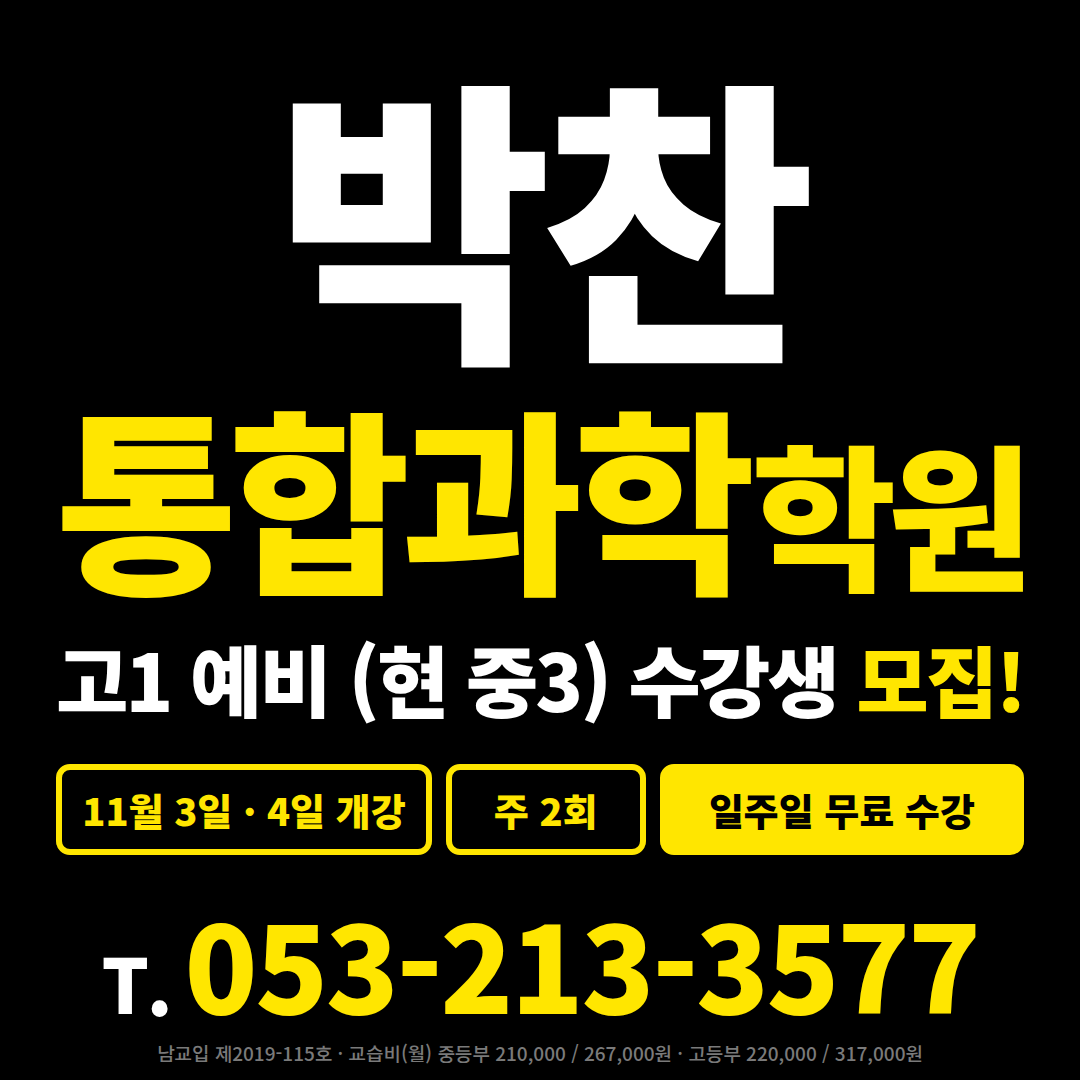
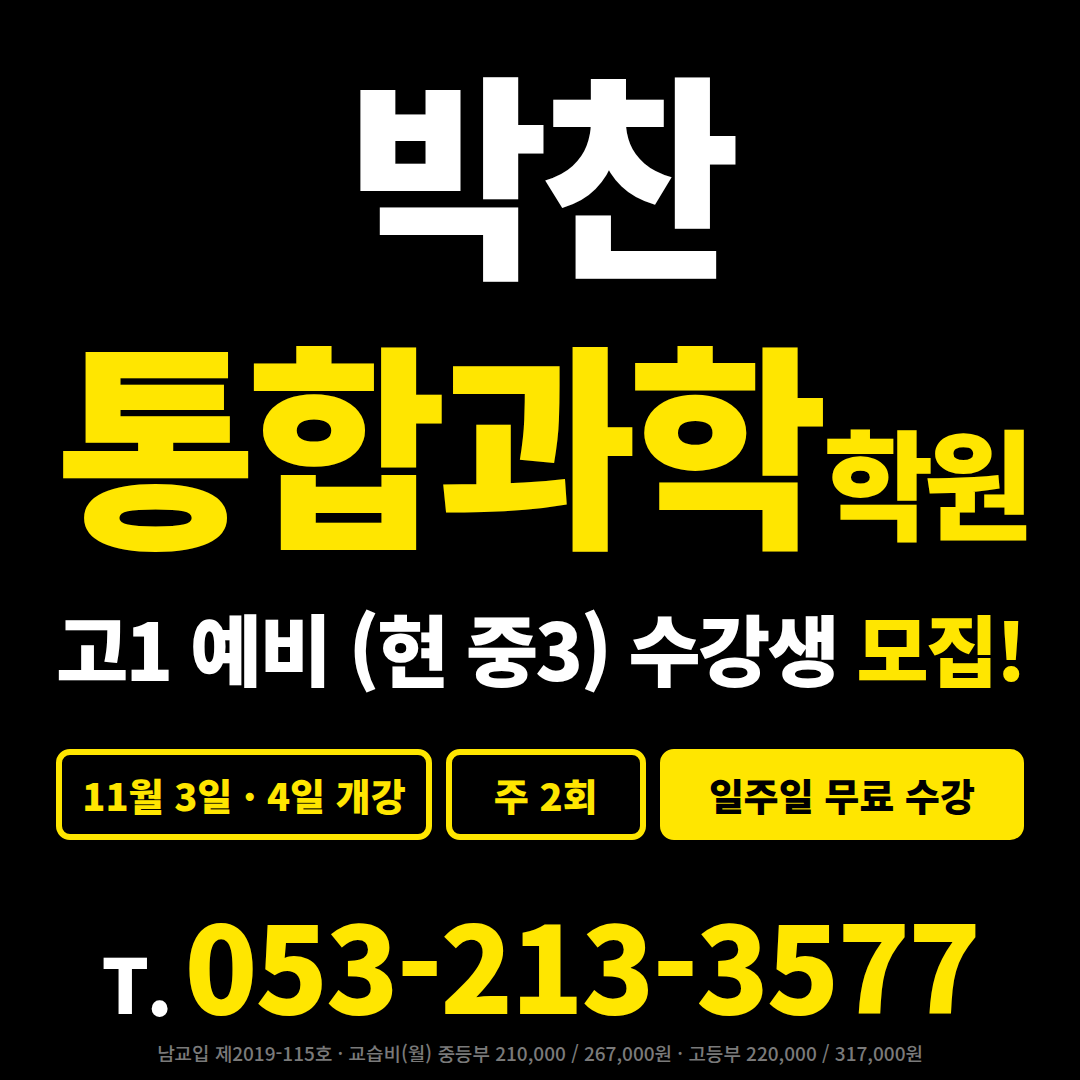
당근 광고 그림 A: '박찬'과 '통합과학' 글자 크기를 같게
Claude-Session: https://claude.ai/code/session_01WC7EVNFFJZDdwaC3HYBAmj

Changed region(s): [[0.0306, 0.0611, 0.9472, 0.7944]]

diff --git a/parkchan-science/marketing/daangn-01/images_source.html b/parkchan-science/marketing/daangn-01/images_source.html
@@ -179,7 +179,7 @@ h2{font-size:58px;font-weight:900;line-height:1.3;letter-spacing:-.02em;color:va
 #adA{align-items:center;text-align:center;padding:58px 56px 58px;justify-content:space-between}
 #adA .nm1,#adA .nm2,#adA .rec,#adA .tel{align-self:center;margin:0;line-height:1;font-weight:900}
 #adA .nm1{color:#fff;letter-spacing:-.04em}
-#adA .nm2{color:#FFE600;letter-spacing:-.045em;margin-top:-10px}#adA .nm2 i{font-style:normal;font-size:.8em;margin-left:.03em}
+#adA .nm2{color:#FFE600;letter-spacing:-.045em;margin-top:-10px}#adA .nm2 i{font-style:normal;font-size:.55em;margin-left:.04em}
 #adA .rec{color:#fff;letter-spacing:-.035em}#adA .rec em{font-style:normal;color:#FFE600}
 #adA .info{margin:0;width:100%;gap:14px}#adA .info span{min-width:0;padding:12px 6px;font-size:38px;display:grid;place-items:center}#adA .info span:nth-child(1){flex:1.5}#adA .info span:nth-child(2){flex:.75}#adA .info span.f{flex:1.45}
 #adA{position:relative}
@@ -189,8 +189,8 @@ h2{font-size:58px;font-weight:900;line-height:1.3;letter-spacing:-.02em;color:va
 </style></head><body>
 <section id="prof"><div class="in"><div class="a">박찬</div><div class="b">통합과학</div><div class="c">학원</div></div></section>
 <section class="sq" id="adA">
- <div class="nm1 fit" data-w="968" data-h="300">박찬</div>
- <div class="nm2 fit" data-w="968" data-h="200">통합과학<i>학원</i></div>
+ <div class="nm1 fit eq" data-w="968" data-h="260">박찬</div>
+ <div class="nm2 fit eq" data-w="968" data-h="260">통합과학<i>학원</i></div>
  <div class="rec fit" data-w="968" data-h="90">고1 예비 (현 중3) 수강생 <em>모집!</em></div>
  <div class="info"><span>11월 3일 · 4일 개강</span><span>주 2회</span><span class="f">일주일 무료 수강</span></div>
  <div class="tel fit" data-w="968" data-h="120"><small>T.</small>053-213-3577</div><div class="fineA">남교입 제2019-115호 · 교습비(월) 중등부 210,000 / 267,000원 · 고등부 220,000 / 317,000원</div></section>
@@ -208,5 +208,5 @@ h2{font-size:58px;font-weight:900;line-height:1.3;letter-spacing:-.02em;color:va
  <p class="dates">화금반 <b>11월 3일(화)</b> · 수토반 <b>11월 4일(수)</b> 개강<br>주 2회 수업</p><div class="tel2"><span>상담<b>053-213-3577</b></span></div></div><div class="foot"><b>박찬 통합과학 학원</b> · 대구 달서구 조암로 25 그루빌딩 501호 (월성 CGV 옆)</div><div class="fineC">남교입 제2019-115호 · 교습비(월) 중등부 210,000 / 267,000원 · 고등부 220,000 / 317,000원</div></section>
 <section class="sq cream" id="news"><div class="pad"><h2>이렇게 강의합니다</h2><div class="note"><span class="tape b"></span><div class="row"><div class="ic" style="background:var(--butter2)"><svg width="44" height="44" viewBox="0 0 58 58" fill="none" stroke="#24406F" stroke-width="4.5" stroke-linecap="round" stroke-linejoin="round"><path d="M29 8 a14 14 0 0 1 9 25 L38 40 L20 40 L20 33 A14 14 0 0 1 29 8 Z"/><path d="M22 47 L36 47 M25 53 L33 53"/></svg></div><div><b>개념과 원리 위주의 이해 중심 강의</b><span>기초가 부족했던 학생을 위한 특별 보충 수업까지</span></div></div><div class="row"><div class="ic" style="background:var(--sky)"><svg width="44" height="44" viewBox="0 0 58 58" fill="none" stroke="#24406F" stroke-width="4.5" stroke-linecap="round" stroke-linejoin="round"><path d="M8 46 L20 30 L30 38 L48 14"/><path d="M38 14 L48 14 L48 24"/></svg></div><div><b>사고력 · 응용력 향상을 돕는 문제 풀이</b><span>자료를 해석하고, 처음 보는 상황에 적용하기</span></div></div><div class="row"><div class="ic" style="background:#F9E1D0"><svg width="44" height="44" viewBox="0 0 58 58" fill="none" stroke="#24406F" stroke-width="4.5" stroke-linecap="round" stroke-linejoin="round"><rect x="6" y="12" width="46" height="34" rx="7"/><path d="M24 21 L36 29 L24 37 Z" fill="#24406F"/></svg></div><div><b>동영상으로 보강하는 수업</b><span>결석한 날도 학원에서 동영상으로 보강</span></div></div><div class="row"><div class="ic" style="background:var(--butter2)"><svg width="44" height="44" viewBox="0 0 58 58" fill="none" stroke="#24406F" stroke-width="4.5" stroke-linecap="round" stroke-linejoin="round"><circle cx="29" cy="19" r="10"/><path d="M11 50 Q13 33 29 33 Q45 33 47 50"/></svg></div><div><b>원장 직강</b><span>공통과학을 가르쳤던 경험으로 처음부터 끝까지</span></div></div></div></div><div class="foot"><b>박찬 통합과학 학원</b> · 대구 달서구 조암로 25 그루빌딩 501호 (월성 CGV 옆)</div><div class="fineC">남교입 제2019-115호 · 교습비(월) 중등부 210,000 / 267,000원 · 고등부 220,000 / 317,000원</div></section>
 <script>
-Promise.all([document.fonts.load('900 100px S'),document.fonts.load('800 100px S')]).then(()=>{document.querySelectorAll('.fit').forEach(el=>{el.style.whiteSpace='nowrap';el.style.display='inline-block';const W=+el.dataset.w,H=+el.dataset.h;let lo=10,hi=500;for(let k=0;k<28;k++){const m=(lo+hi)/2;el.style.fontSize=m+'px';const r=el.getBoundingClientRect();(r.width<=W&&r.height<=H)?lo=m:hi=m}el.style.fontSize=lo+'px'});document.body.dataset.ok=1});
+Promise.all([document.fonts.load('900 100px S'),document.fonts.load('800 100px S')]).then(()=>{document.querySelectorAll('.fit').forEach(el=>{el.style.whiteSpace='nowrap';el.style.display='inline-block';const W=+el.dataset.w,H=+el.dataset.h;let lo=10,hi=500;for(let k=0;k<28;k++){const m=(lo+hi)/2;el.style.fontSize=m+'px';const r=el.getBoundingClientRect();(r.width<=W&&r.height<=H)?lo=m:hi=m}el.style.fontSize=lo+'px'});const eq=[...document.querySelectorAll('.eq')];if(eq.length){const m=Math.min(...eq.map(e=>parseFloat(e.style.fontSize)));eq.forEach(e=>e.style.fontSize=m+'px')}document.body.dataset.ok=1});
 </script></body></html>
